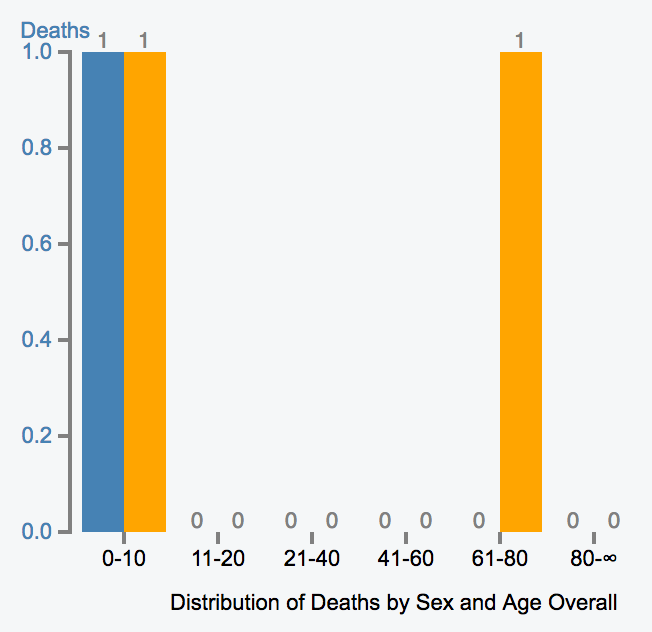
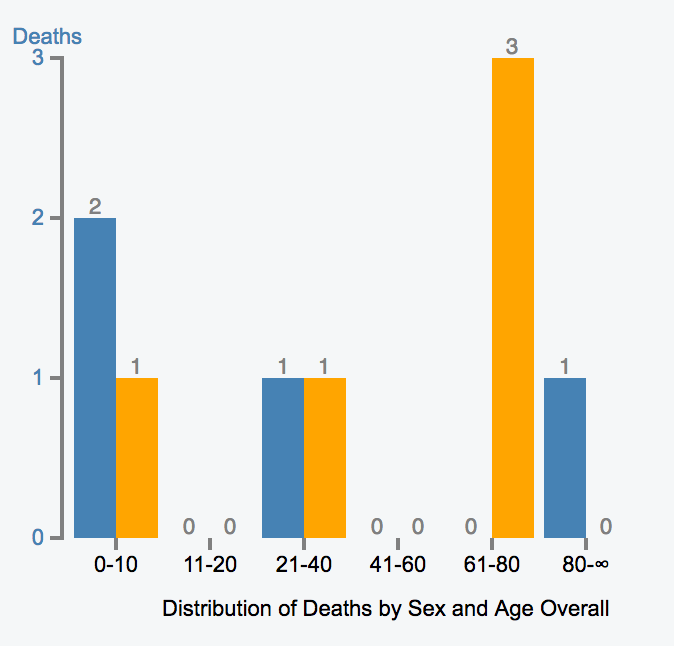
Added factors

Changed region(s): [[0.0, 0.0301, 0.5215, 0.9019], [0.5521, 0.0601, 0.9509, 0.9019], [0.2147, 0.932, 0.9509, 0.9921]]

diff --git a/H517-Project1-Documentation/index.html b/H517-Project1-Documentation/index.html
@@ -144,6 +144,16 @@
 				</br></br><h4>Discovered facts</h4>
 				<p style="text-align:justify; text-justify:inter-ideograph;">According to US census data from 1850, percentage of people in each age group in general during that time were 0-10: 28%, 11-20: 25%, 21-40: 30%, 41-60: 13%, 61-80: 4%, > 80: 1%. We assume the same breakdown for London. But during this cholera epidemic, the largest number of victims are from the age group: >80. So, this epidemic may be harmful for olds and they have the lowest survival rate.</p>
 				<div align="center"><img class="img-responsive" src="img/11.png" alt="Featured Image" width="350" ></div>
+				<p style="text-align:justify; text-justify:inter-ideograph;">Also, there is not large difference among the percentages of people in age 0-10, 11-20 and 21-40, however, in age 0-10, the number of victims is nearly twice as much as those in the other two groups, so kids are easier to suffer in this disease.</p>
+				<p style="text-align:justify; text-justify:inter-ideograph;">There are not so many differences between number of victims of males and that of females, so the disease may not related to gender.</p></br></br>
+				<div align="center"><img class="img-responsive" src="img/14.png" alt="Featured Image" width="350" ></div>
+				<p style="text-align:justify; text-justify:inter-ideograph;">From the timeline we can see that the peak is on September 1st, and the epidemic outbreaked during August 31st to September 10th. Actually the number of deaths increaces for only 2 days. If some measures were used to control this epidemic, it is quite efficient.</p></br></br>
+				<table><tr>
+				<td><img class="img-responsive" src="img/15.png" alt="Featured Image" ></td>
+				<td><img class="img-responsive" src="img/16.png" alt="Featured Image" ></td>	
+				</tr></table>
+				<p style="text-align:justify; text-justify:inter-ideograph;">The left graph above is the locations of deaths by August 27th, and the right one is by 3rd September. We can see that new deaths happened around the original deaths. And pumps may also be the way for spreading of the epidemic. This disease may spread through water and the contaction with the infected person.</p>
+				<table><tr>
 						
 										
 			</section>
